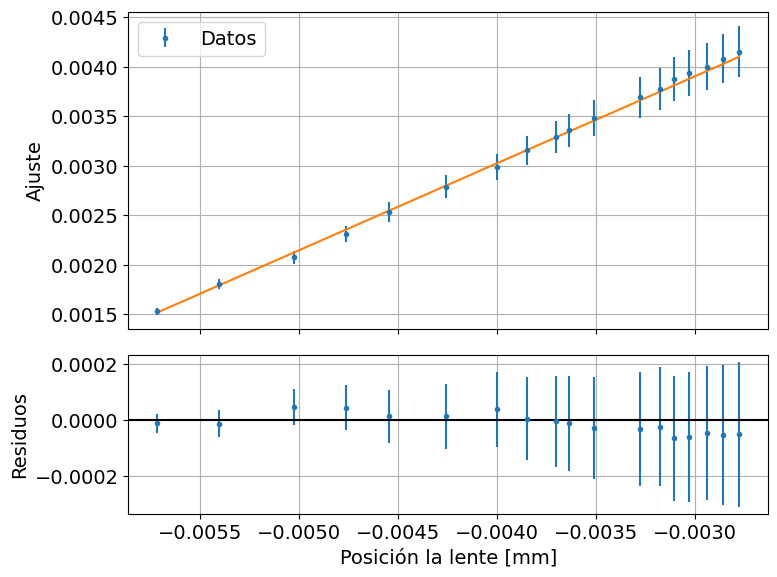
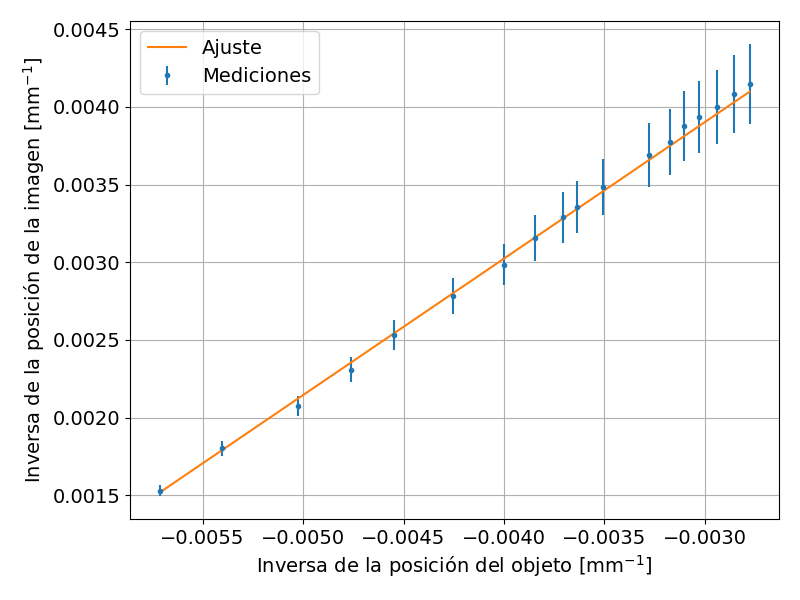
2024-06-01 20:07

Changed region(s): [[0.0, 0.0, 1.0, 0.9983], [0.2471, 0.3432, 0.278, 0.3744], [0.2162, 0.7799, 0.2471, 0.8111]]

diff --git a/common/plot.py b/common/plot.py
@@ -1,11 +1,9 @@
 import logging
 import numpy as np
 import matplotlib.pyplot as plt
-from matplotlib import figure  # For type 'Figure'
-from matplotlib.lines import Line2D
-from matplotlib.widgets import Slider
+from matplotlib.figure import Figure
 from typing import Any
-
+from pathlib import Path
 
 logger = logging.getLogger(__name__)
 
@@ -13,15 +11,15 @@ opt_show_plots = False
 
 plt.rcParams.update({"font.size": 14})
 
-Slider = Slider
+DEFAULT_FIGSIZE = (8, 6)
 
 
-def save(*args, **kwargs):
+def save(filename, **kwargs):
     plt.tight_layout()
 
-    if args != ():
-        logger.info(f"Saving figure '{args[0]}'.")
-        plt.savefig(*args, bbox_inches='tight', **kwargs)
+    if filename is not None:
+        logger.info(f"Saving figure '{filename}'.")
+        plt.savefig(filename, **kwargs)
 
     if opt_show_plots:
         logger.info("Showing plot")
@@ -53,31 +51,147 @@ def get_units(label: str) -> str:
 def data(
     x_data,
     y_data,
-    y_error,
-    title: str = None,
+    error,
+    fmt=".",
+    nosave=False,
+    saveto: Path = None,
     label: str = None,
     xlabel: str = None,
     ylabel: str = None,
-    figsize=(8, 6),
+    figsize=DEFAULT_FIGSIZE,
     **kwargs
-) -> tuple[figure.Figure, Any]:
+) -> tuple[Figure, Any]:
     """
     Plot data with errors.
     """
 
+    # if y_data is a list of y_datas, create a subplot with as many rows as
+    # there are elements in the list.
+    rows = 1 if not isinstance(y_data, list) else len(y_data)
+    cols = 1
+
     fig, ax = plt.subplots(
+        rows,
+        cols,
         figsize=figsize,
-        *kwargs
+        sharex=False if rows == 1 else True,
+        **kwargs
     )
 
-    lines = ax.errorbar(x_data, y_data, yerr=y_error, fmt="o", label=label)
+    # error may be (x_err, y_err) or just y_err
+    xerr, yerr = error if isinstance(error, tuple) else None, error
+
+    ax.errorbar(
+        x_data,
+        y_data,
+        x_err=xerr,
+        yerr=yerr,
+        fmt=fmt,
+        label=label
+    )
 
     ax.set(xlabel=xlabel if xlabel is not None else x_data.name)
     ax.set(ylabel=ylabel if ylabel is not None else y_data.name)
-    ax.grid()
+
+    ax.grid(True)
 
     if label is not None:
         ax.legend()
+
+    if not nosave:
+        save(saveto)
+
+    return fig, ax
+
+
+def plot_residue(
+    x_data,
+    residue,
+    yerr,
+    xlabel: str = None,
+    ylabel: str = None,
+    saveto: Path = None
+):
+    fig_res, ax_res = plt.subplots(
+        figsize=DEFAULT_FIGSIZE
+    )
+
+    ax_res.errorbar(x_data, residue, yerr=yerr, fmt=".")
+
+    ylabel = f"Residuos {get_units(ylabel)}"
+
+    ax_res.set(xlabel=xlabel)
+    ax_res.set(ylabel=ylabel)
+
+    ax_res.grid(True)
+
+    ax_res.axhline(0, color="black")
+
+    if saveto is not None:
+        # Append '-residue' to path to save figure
+        saveto = saveto.parent / f"{saveto.stem}-residue{saveto.suffix}"
+
+        logger.info(f"Saving residue plot to '{saveto}'")
+
+    save(saveto)
+
+
+def data_and_fit(
+    x_data,
+    y_data,
+    error,
+    y_fit,
+    nosave=False,
+    saveto: Path = None,
+    datalabel: str = "Mediciones",
+    fitlabel: str = "Ajuste",
+    xlabel: str = None,
+    ylabel: str = None,
+    figsize=DEFAULT_FIGSIZE,
+    **kwargs
+):
+    """
+    Plot data, fit and residue.
+    """
+
+    fig, ax = data(
+        x_data,
+        y_data,
+        error,
+        nosave=True,
+        label=datalabel,
+        xlabel=xlabel,
+        ylabel=ylabel,
+        **kwargs,
+    )
+
+    # Plot fit in 'ax' (on top of the data)
+    ax.plot(
+        x_data,
+        y_fit,
+        label=fitlabel
+    )
+
+    if fitlabel is not None:
+        ax.legend()
+
+    if not nosave:
+        save(saveto)
+
+    # Plot residue separately
+
+    residue = y_fit - y_data
+
+    reserr = error[1] if isinstance(error, tuple) else error,
+
+    plot_residue(
+        x_data,
+        residue,
+        reserr,
+        xlabel=xlabel if xlabel is not None else x_data.name,
+        ylabel=ylabel if ylabel is not None else y_data.name,
+        saveto=saveto
+    )
 
     return fig, ax
 
@@ -89,7 +203,7 @@ def data_polar(
     terr=None,
     title: str = None,
     label: str = None,
-    figsize=(8, 6),
+    figsize=DEFAULT_FIGSIZE,
     rorigin=None,
     rlabel=None,
     **kwargs
@@ -124,63 +238,3 @@ def data_polar(
         ax.legend()
 
     return
-
-
-def data_and_fit(
-    x_data,
-    y_data,
-    y_error,
-    y_fit,
-    x_error=None,
-    title: str = None,
-    label: str = "Datos",
-    fitlabel: str = None,
-    xlabel: str = None,
-    ylabel: str = "Ajuste",
-    figsize=(8, 6),
-    nofit=False,
-    **kwargs
-):
-    """
-    Plot data, fit and residue.
-    """
-
-    fig, ax = plt.subplots(
-        2,
-        1,
-        sharex=True,
-        figsize=figsize,
-        gridspec_kw={"height_ratios": (2, 1)},
-        *kwargs
-    )
-
-    # Graph data and fit (y_fit) on top of each other
-    ax[0].errorbar(
-        x_data,
-        y_data,
-        yerr=y_error,
-        xerr=x_error,
-        fmt=".",
-        label=label
-    )
-
-    if not nofit:
-        ax[0].plot(x_data, y_fit, label=fitlabel)
-
-    # Graph differences between measurement and prediction (fit) in a
-    # separate subplot
-    residue = y_fit - y_data
-    ax[1].errorbar(x_data, residue, yerr=y_error, fmt=".")
-
-    # Change looks for each subplot
-    ax[0].set_title(title)
-    ax[0].set(ylabel=ylabel if ylabel is not None else y_data.name)
-    ax[0].legend()
-    ax[0].grid()
-
-    ax[1].set(xlabel=xlabel if xlabel is not None else x_data.name)
-    ax[1].set(ylabel="Residuos")
-    ax[1].axhline(0, color="black")
-    ax[1].grid()
-
-    return fig, ax

diff --git a/4 - óptica/c10/src/lente.py b/4 - óptica/c10/src/lente.py
@@ -26,14 +26,17 @@ def main(path: Path, args: list[str]) -> None:
 
     lente = df["Posición la lente [mm]"]
     obj = 40 - lente
-    img = df["Posición de la pantalla [mm]"] - lente
+
+    img = df["Posición de la pantalla [mm]"]
+    img -= lente
+
     error_img = 15
 
     indirect_err = error_img / img ** 2
 
     f = fit.f.linear
 
-    fit_found, _ = fit.utils.fitnsave(
+    y_fit, _ = fit.utils.fitnsave(
         path/f"results/{__name__}.csv",
         f,
         1/obj,
@@ -41,12 +44,12 @@ def main(path: Path, args: list[str]) -> None:
         yerr=indirect_err
     )
 
-    # ax.plot(1/obj, f.f(1/obj, *p_opt))
     plot.data_and_fit(
         1/obj,
         1/img,
         indirect_err,
-        fit_found
+        y_fit,
+        saveto=path/f"plots/{__name__}.png",
+        xlabel=r"Inversa de la posición del objeto [mm$^{-1}$]",
+        ylabel=r"Inversa de la posición de la imagen [mm$^{-1}$]",
     )
-
-    plot.save(path/f"plots/{__name__}.png")

diff --git a/4 - óptica/c8/src/haz_37.py b/4 - óptica/c8/src/haz_37.py
@@ -1,4 +1,4 @@
-from common import data, plot
+from common import data, plot, fit
 from pathlib import Path
 import numpy as np
 
@@ -6,7 +6,7 @@ CELL_RANGE = "A2:E16"
 WORKSHEET = "BIENPERFIL 0.37m"
 
 
-def main(path: Path) -> None:
+def main(path: Path, erf) -> None:
     # Find dataframe
     df = data.find(
         path,
@@ -17,7 +17,21 @@ def main(path: Path) -> None:
 
     pos = df["Posición [mm]"]
     volt = df["Voltaje [V]"]
-    # error =
+    error = df["Error intens"]
 
-    plot.data(pos, volt, 0)
-    plot.save()
+    fit_found, _ = fit.utils.fitnsave(
+        path/f"results/{__name__}.csv",
+        erf,
+        pos,
+        volt,
+        yerr=error,
+        p0=[100]
+    )
+
+    plot.data_and_fit(
+        pos,
+        volt,
+        error,
+        fit_found,
+        saveto=path/f"plots/{__name__}.png"
+    )

diff --git a/4 - óptica/c8/src/pol_cos2.py b/4 - óptica/c8/src/pol_cos2.py
@@ -20,6 +20,5 @@ def main(path: Path, angle, volt, error) -> None:
         volt,
         error,
         volt_fit,
+        saveto=path/f"plots/{__name__}.png"
     )
-
-    plot.save(path/f"plots/{__name__}.png")

diff --git a/4 - óptica/c8/src/haz_52.py b/4 - óptica/c8/src/haz_52.py
@@ -32,7 +32,6 @@ def main(path: Path, erf) -> None:
         pos,
         volt,
         error,
-        fit_found
+        fit_found,
+        saveto=path/f"plots/{__name__}.png"
     )
-
-    plot.save()

diff --git a/4 - óptica/c10/src/amp.py b/4 - óptica/c10/src/amp.py
@@ -37,6 +37,5 @@ def main(path: Path, args: list[str]) -> None:
         intensidad,
         error,
         fit_found,
+        saveto=path/f"plots/{__name__}.png"
     )
-
-    plot.save()

diff --git a/4 - óptica/c8/src/pol_fit.py b/4 - óptica/c8/src/pol_fit.py
@@ -39,5 +39,3 @@ def main(path: Path, angle, volt, error) -> None:
         fit_found,
         x_error=1
     )
-
-    plot.save()
